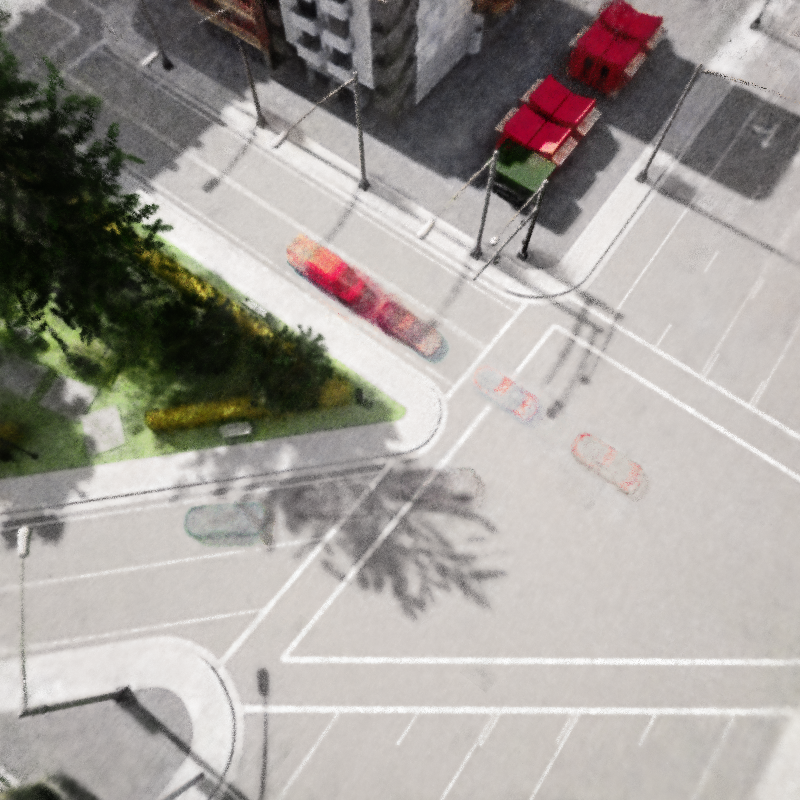
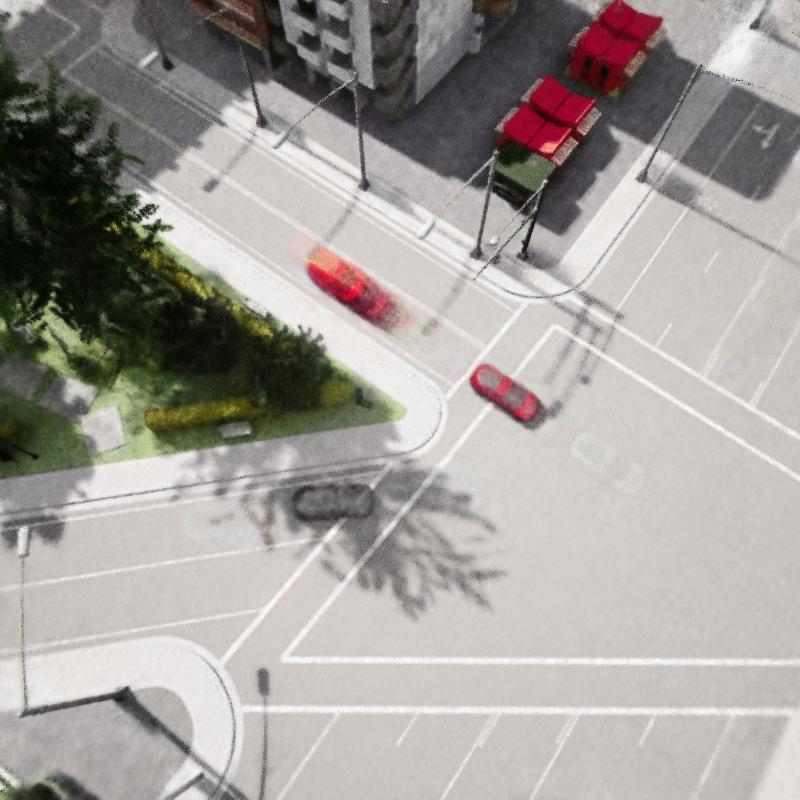
Added front car for better calculations and added n times functions

diff --git a/nerf/gui.py b/nerf/gui.py
@@ -208,7 +208,7 @@ class NeRFGUI:
         outputs = self.trainer.test_gui(poses, intrinsics, W, H, latents, bg_color=None, spp=1, downscale=1, target_positions=target_positions)
         return outputs['mean_density']
 
-    def update_and_compute_densities(self, image_path, target_positions1, target_positions2, dest_path='rendered.png'):
+    def update_and_compute_densities(self, image_path, dest_path='rendered.png'):
         result_index = self.find_index(image_path)
         # update test_latent
         if result_index == -1:
@@ -314,3 +314,56 @@ class NeRFGUI:
             if self.training:
                 self.train_step()
             self.test_step()
+
+    def callback_toggle_probe_10(sender, image_path):
+        parts = image_path.split(',')
+        num_experiments = int(parts[0])
+        image_path = parts[1]
+        gt_index = self.find_index(image_path)
+        gt_scene = int(self.train_loader._data.scene_ids[gt_index])
+        
+        predicted_t = []
+        for _ in range(num_experiments):
+            update_latent_from_image(image_path)
+            result_index = self.probe()
+            mus = self.train_loader._data.mus[result_index].cuda()
+            vars = self.train_loader._data.vars[result_index].cuda()
+            # one hot encode
+            one_hot_encode = F.one_hot(torch.tensor([self.current_t]), self.train_loader._data.num_scenes).cuda()
+            input_data = torch.cat([mus, vars]).unsqueeze(0).cuda()
+            sampled_latent, weight, mu, sigma = self.MDN.sample(input_data)
+            predicted_latent = sampled_latent.squeeze(0)
+            result_index = self.probe()
+            current_t = int(self.train_loader._data.scene_ids[result_index])
+            predicted_t.append(current_t)
+            print(predicted_t)
+        count = sum(1 for number in predicted_t if number == gt_scene)
+        print (count / len(predicted_t))
+
+    def callback_predict_probe_10(sender, image_path):
+        parts = image_path.split(',')
+        num_experiments = int(parts[0])
+        image_path = parts[1]
+
+        gt_index = self.find_index(image_path)
+        gt_scene = int(self.train_loader._data.scene_ids[gt_index]) + 1
+        predicted_t = []
+        for _ in range(num_experiments):
+            print("Predicted timestamp:", predicted_t)
+            print("Ground truth scene:", gt_scene)
+            update_latent_from_predicted(image_path)
+            result_index = self.probe()
+            mus = self.train_loader._data.mus[result_index].cuda()
+            vars = self.train_loader._data.vars[result_index].cuda()
+            # one hot encode
+            one_hot_encode = F.one_hot(torch.tensor([self.current_t]), self.train_loader._data.num_scenes).cuda()
+            input_data = torch.cat([mus, vars]).unsqueeze(0).cuda()
+            sampled_latent, weight, mu, sigma = self.MDN.sample(input_data)
+            predicted_latent = sampled_latent.squeeze(0)
+            result_index = self.probe()
+            current_t = int(self.train_loader._data.scene_ids[result_index])
+            predicted_t.append(current_t)
+            print(predicted_t)
+
+        count = sum(1 for number in predicted_t if number == gt_scene)
+        print (count / len(predicted_t))

diff --git a/density_probing.py b/density_probing.py
@@ -261,11 +261,12 @@ scheduler = lambda optimizer: optim.lr_scheduler.LambdaLR(optimizer, lambda iter
 trainer = Trainer('ngp', opt, model, device=device, workspace=opt.workspace, optimizer=optimizer, criterion=criterion, ema_decay=0.95, fp16=opt.fp16, lr_scheduler=scheduler, scheduler_update_every_step=True, metrics=[PSNRMeter()], use_checkpoint=opt.ckpt, eval_interval=50)
 gui = NeRFGUI(opt, trainer, train_loader, input_path="train/cam-v2-t0")
 
-gui.render(900) # 500 to reach 0.55 progress
+gui.render(1100) # 500 to reach 0.55 progress
 
 # Getting positions for each timestamp
 
 truck_positions = {}
+car_positions = {}
 
 for t in range(6):
     outputs = gui.update_latent_from_image(f"train/cam-v2-t{t}", f"rendered_t{t}.png")
@@ -279,7 +280,6 @@ for t in range(6):
     cluster_0 = red_positions[labels == 0]
     cluster_1 = red_positions[labels == 1]
 
-    # car_positions[t] = cluster_0 if cluster_0[0][0] < cluster_1[0][0] else cluster_1
     two_car_positions = cluster_0 if centroid_0[0] < centroid_1[0] else cluster_1
 
     kmeans = KMeans(n_clusters=2)
@@ -287,29 +287,22 @@ for t in range(6):
     labels = np.array(kmeans.labels_)
     centroid_0, centroid_1 = kmeans.cluster_centers_[0], kmeans.cluster_centers_[1]
 
-    cluster_0 = two_car_positions[labels == 0]
-    cluster_1 = two_car_positions[labels == 1]
+    truck_positions[t] = centroid_1 if centroid_0[0] < centroid_1[0] else centroid_0
+    car_positions[t] = centroid_0 if centroid_0[0] < centroid_1[0] else centroid_1
 
-    exact_truck_positions = cluster_1 if centroid_0[0] < centroid_1[0] else cluster_1
-    truck_positions[t] = exact_truck_positions
-    print("Centroid 0:", centroid_0)
-    print("Centroid 1:", centroid_1)
-
-    print(f"First 5 car positions for timestamp {t}:")
-    for i in range(5):
-        print(truck_positions[t][i])
-    print()
+    print(f"Truck center for timestamp {t}:", truck_positions[t])
+    print(f"Car center for timestamp {t}:", car_positions[t])
 
 # Performing example density probing using range of car positions
 print("Probing density for prediction of t1...")
-avg_densities = gui.update_and_compute_densities("train/cam-v68-t0", truck_positions[1], truck_positions[4], dest_path=f"rendered_t1_pred.png")
+avg_densities = gui.update_and_compute_densities("train/cam-v68-t0", dest_path=f"rendered_t1_pred.png")
 for i in range(6):
     print(f"Average density at car position {i}:", avg_densities[i])
 max_density = max(avg_densities, key=avg_densities.get)
 print(f"Maximum density is at car position {max_density}:", avg_densities[max_density])
 
 print("Probing density for prediction of t4...")
-avg_densities = gui.update_and_compute_densities("train/cam-v68-t3", truck_positions[1], truck_positions[4], dest_path=f"rendered_t4_pred.png")
+avg_densities = gui.update_and_compute_densities("train/cam-v68-t3", dest_path=f"rendered_t4_pred.png")
 for i in range(6):
     print(f"Average density at car position {i}:", avg_densities[i])
 max_density = max(avg_densities, key=avg_densities.get)

diff --git a/nerf/renderer.py b/nerf/renderer.py
@@ -349,28 +349,40 @@ class NeRFRenderer(nn.Module):
                 
                 # Verify a target location on the rendered image.
                 target_locations = {}
+                car_locations = {}
                 # T0 truck location
                 target_locations[0] = torch.tensor([0.14833795, 0.02983168, -0.33660668]).to(xyzs.get_device())
+                car_locations[0] = torch.tensor([0.1416874, 0.01506077, 0.1599073]).to(xyzs.get_device()) 
                 # T1 truck location
                 target_locations[1] = torch.tensor([0.14917257, 0.03152247, -0.05158296]).to(xyzs.get_device())
+                car_locations[1] = torch.tensor([0.13892217, 0.00947224, 0.40872651]).to(xyzs.get_device()) 
                 # T2 truck location
                 target_locations[2] = torch.tensor([0.14624707, 0.03038827, 0.17848531]).to(xyzs.get_device())
+                car_locations[2] = torch.tensor([0.13723373, 0.03977614, -0.068535]).to(xyzs.get_device()) 
                 # T3 truck location
                 target_locations[3] = torch.tensor([0.14833795, 0.02983168, -0.33660668]).to(xyzs.get_device())
+                car_locations[3] = torch.tensor([0.12936965, 0.01920666, 0.40456722]).to(xyzs.get_device()) 
                 # T4 truck location
                 target_locations[4] = torch.tensor([0.14755751, 0.0269241, -0.27873851]).to(xyzs.get_device())
+                car_locations[4] = torch.tensor([0.13921036, 0.02017598, 0.16569142]).to(xyzs.get_device()) 
                 # T5 truck location
-                target_locations[5] = torch.tensor([0.14674433, 0.02607318, -0.21582227]).to(xyzs.get_device())
+                target_locations[5] = torch.tensor([0.13780347, 0.0118743, 0.41263683]).to(xyzs.get_device())
+                car_locations[5] = torch.tensor([0.12936965, 0.01920666, 0.40456722]).to(xyzs.get_device()) 
 
                 if target_positions is not None:
-                    tolerance = 0.05
+                    tolerance = 0.04
                     target_location = target_locations[target_positions]
+                    car_location = car_locations[target_positions]
                     distances = torch.norm(xyzs - target_location, dim=-1)
+                    car_distances = torch.norm(xyzs - car_location, dim=-1)
                     close_to_target = distances < tolerance
+                    close_to_car = distances < tolerance
 
                     selected_densities = sigmas[close_to_target]
+                    selected_car_densities = sigmas[close_to_car]
                     if len(selected_densities) > 0:
                         mean_densities.append(torch.mean(selected_densities).item())
+                        mean_densities.append(torch.mean(selected_car_densities).item())
 
                 raymarching.composite_rays(n_alive, n_step, rays_alive[i % 2], rays_t[i % 2], sigmas.float(), rgbs.float(), deltas, weights_sum, depth, image)
 
